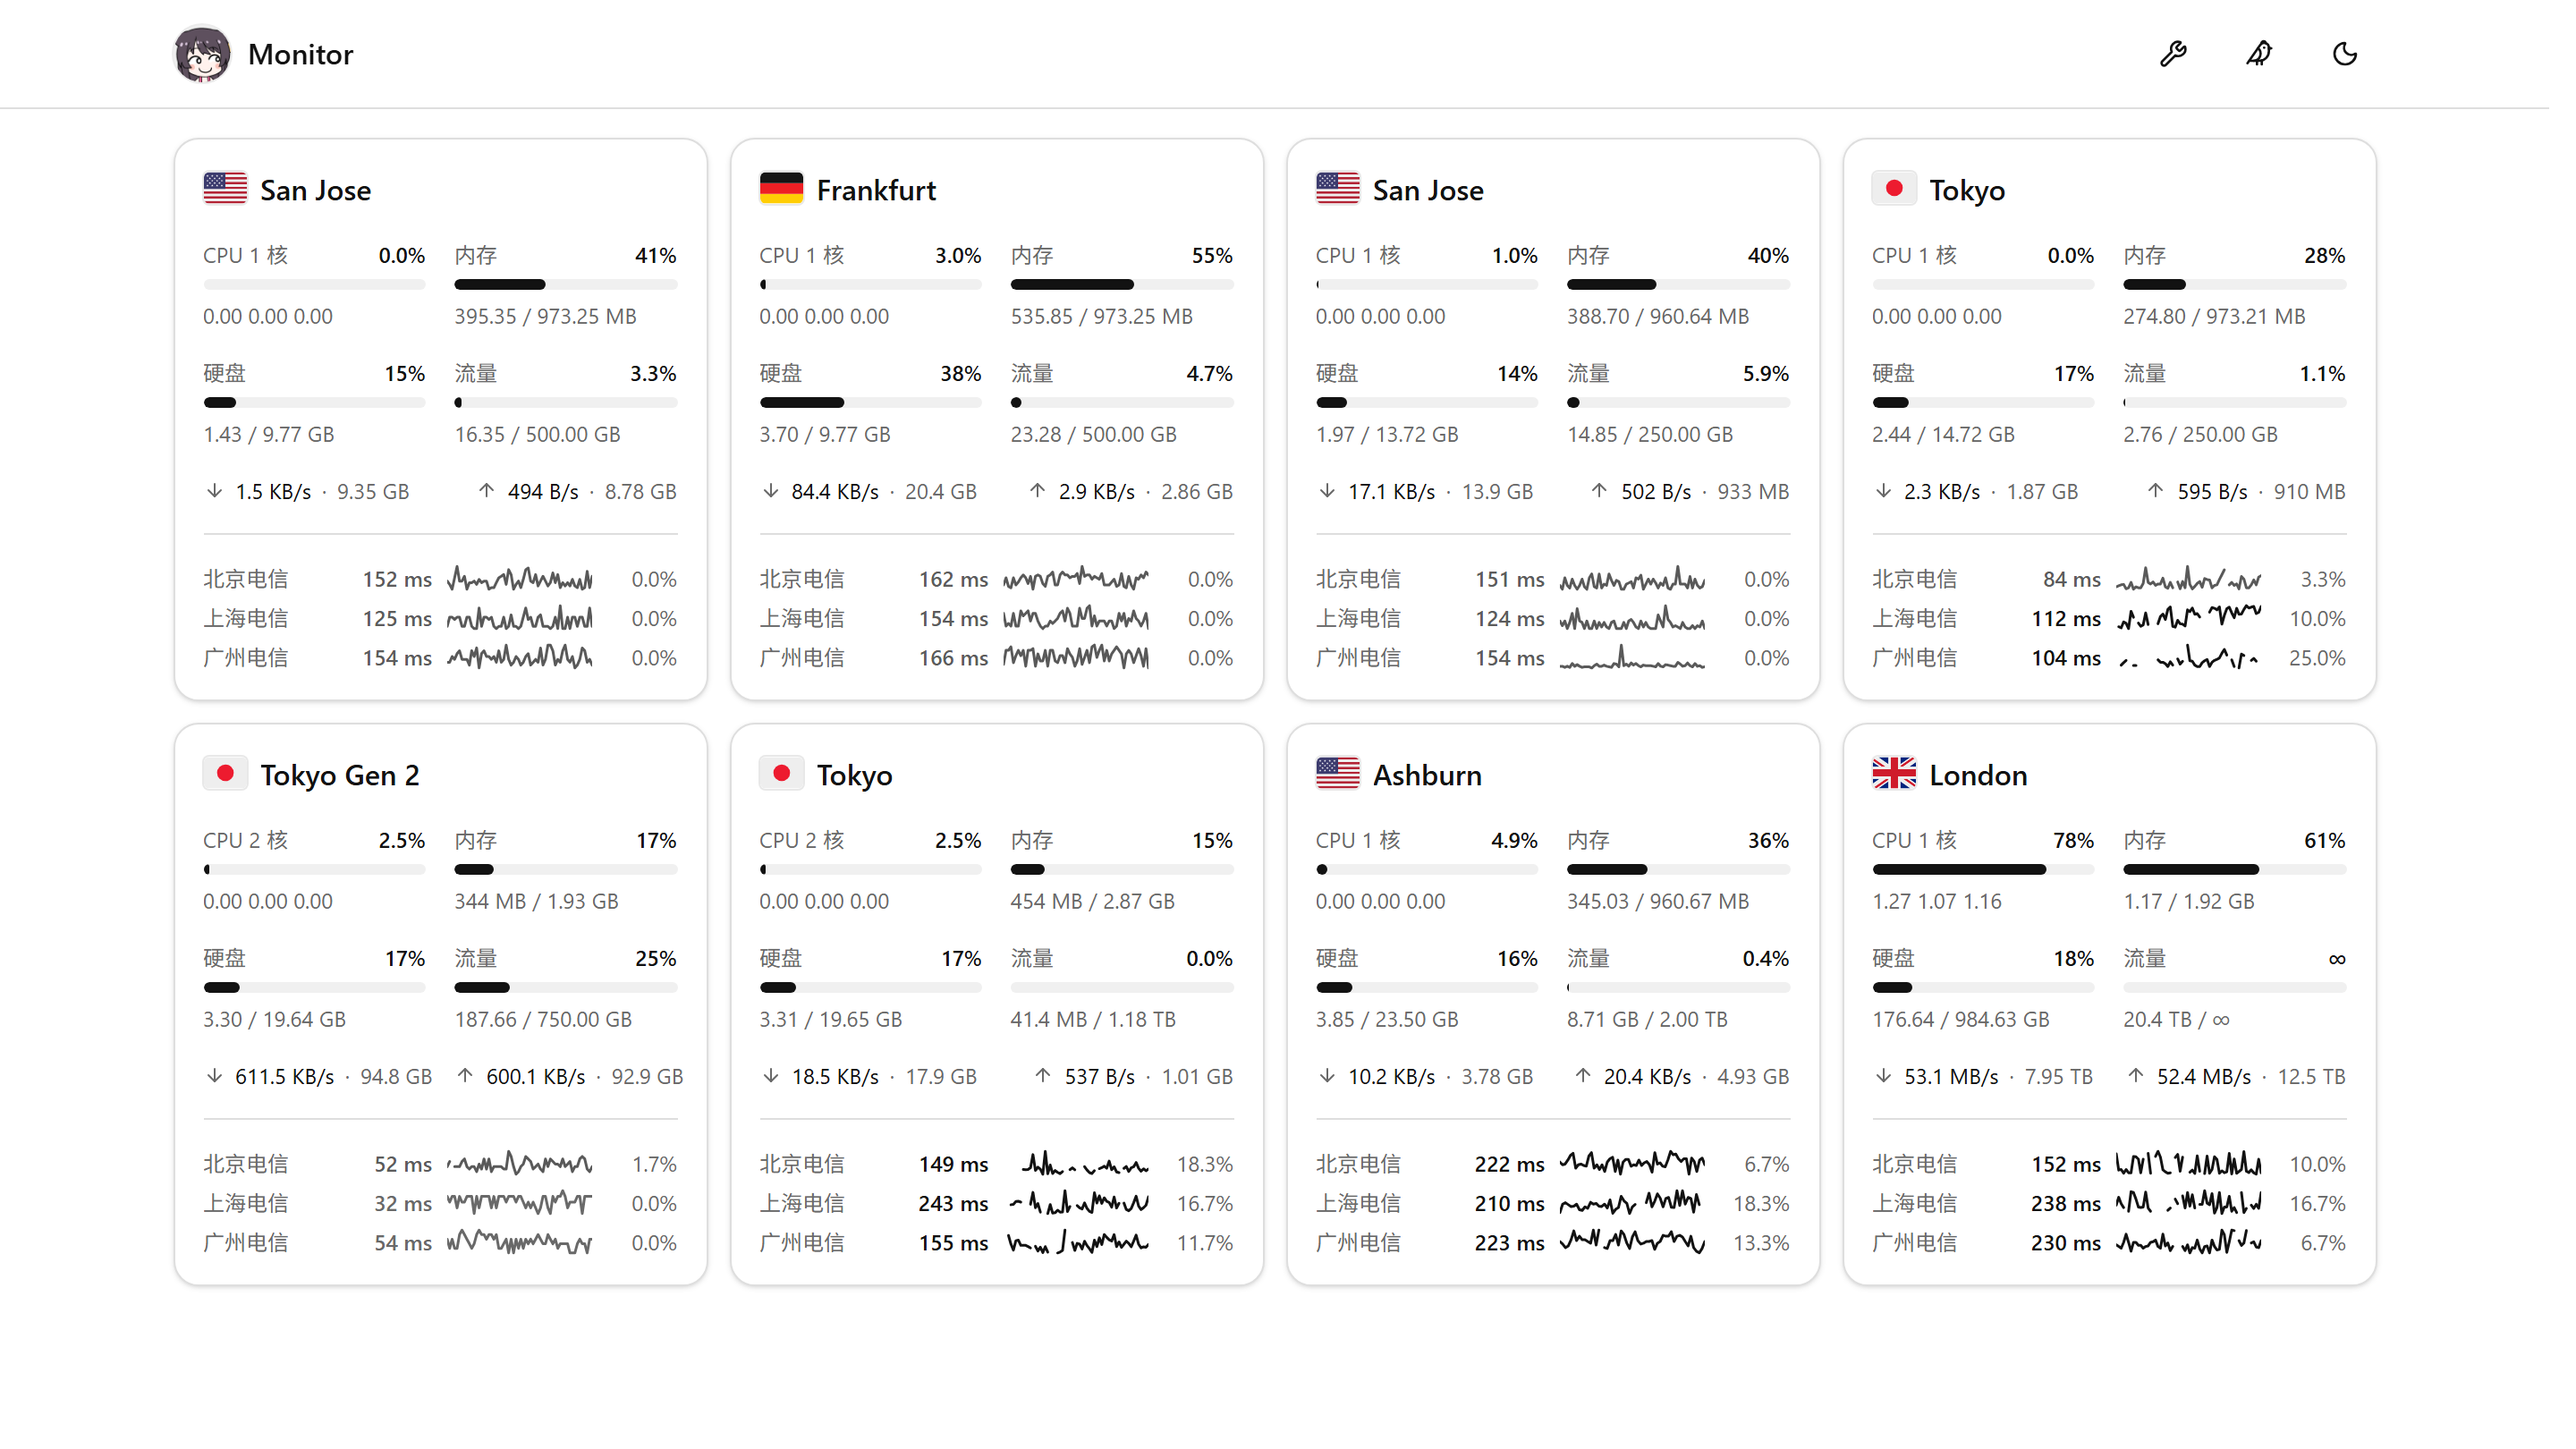
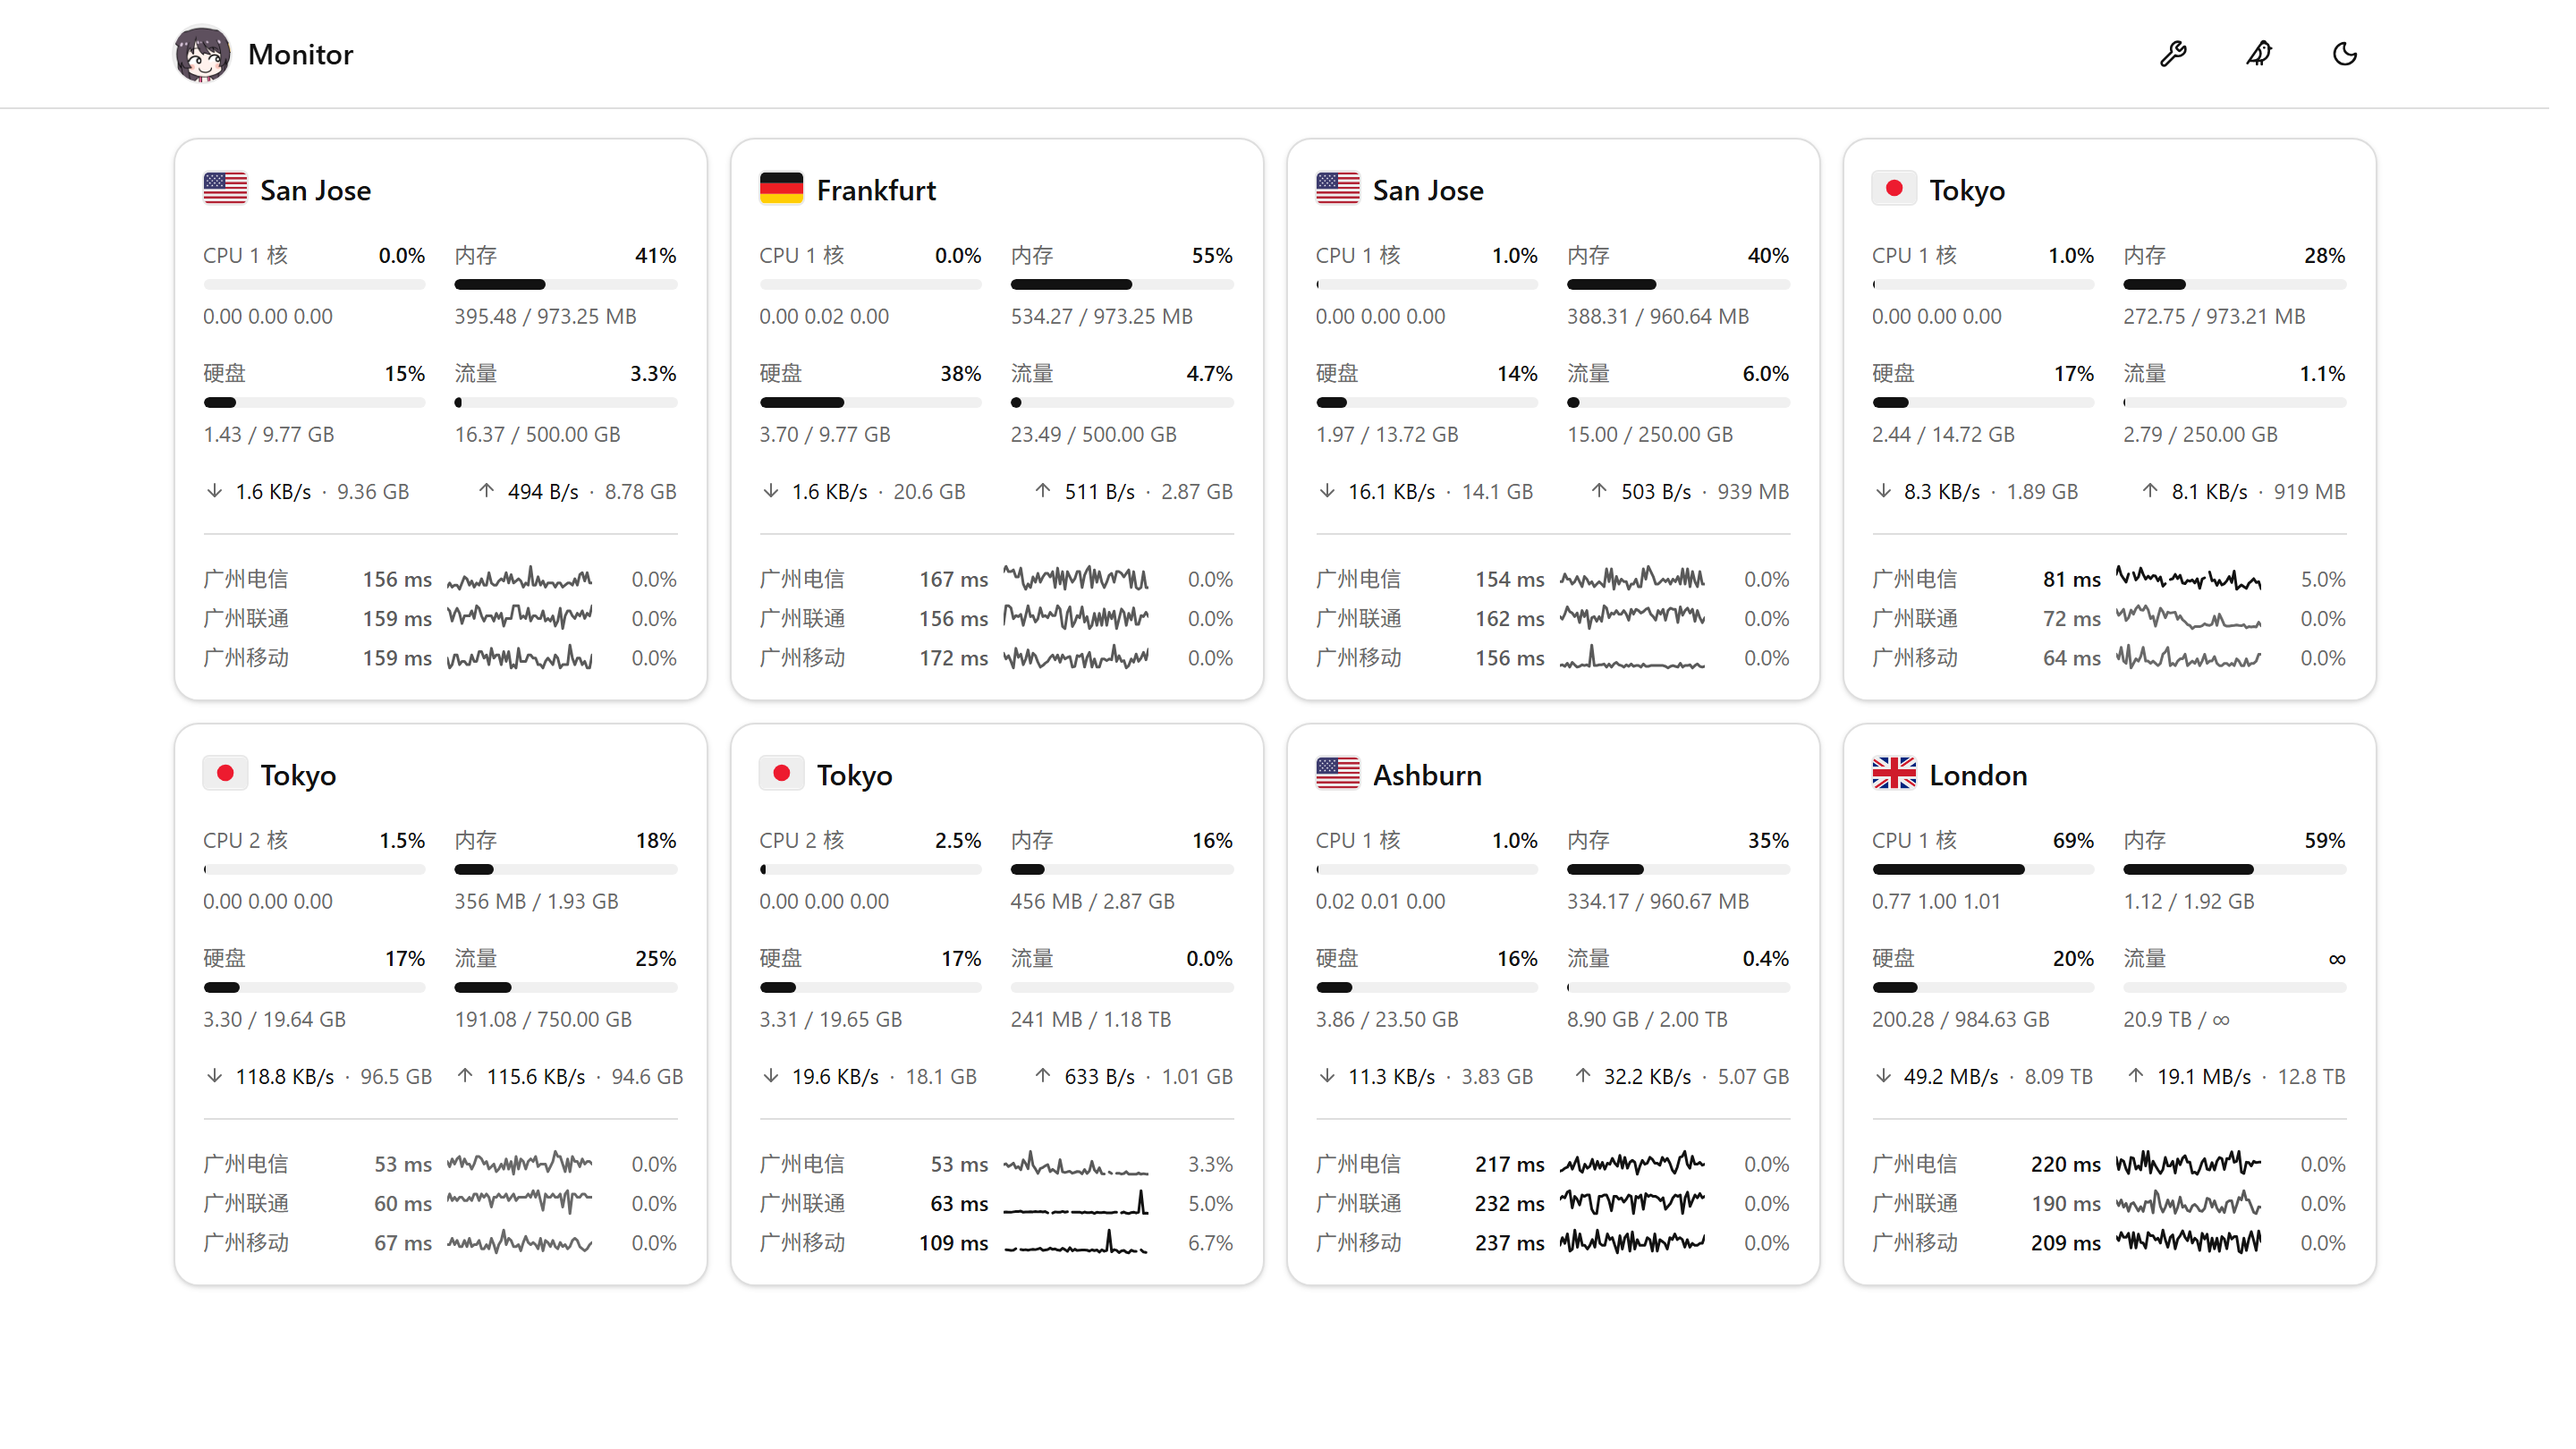
预览图：延迟形态按现网重拍，替换旧图
- 旧图是 00:33 的机位（延迟线路还是北京/上海/广州、卡片数据也旧），换成现网当前状态
- shot_preview.mjs 新增可选第 7 个参数：把站点配置里的 cardStyle 在浏览器层钉成指定档再截
  （线上配置只读不改，访客端无感），并按快门前断言这条覆写真的发生过——已做反向自测
- README 的延迟形态引用加 ?v=2：同一文件名换了内容，避开 GitHub raw/camo 的旧副本

diff --git a/README.md b/README.md
@@ -10,7 +10,7 @@
 
 | 经典形态（默认） | 延迟形态 | 详细形态 |
 |---|---|---|
-| ![经典形态](preview-classic.png) | ![延迟形态](preview-latency.png) | ![详细形态](preview-detailed.png) |
+| ![经典形态](preview-classic.png) | ![延迟形态](preview-latency.png?v=2) | ![详细形态](preview-detailed.png) |
 
 ## 安装
 
